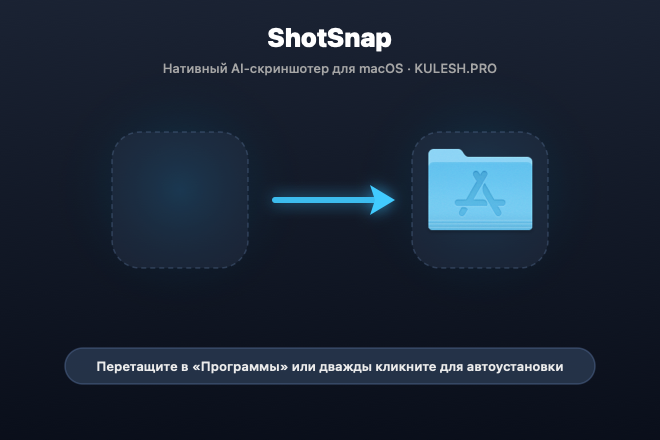
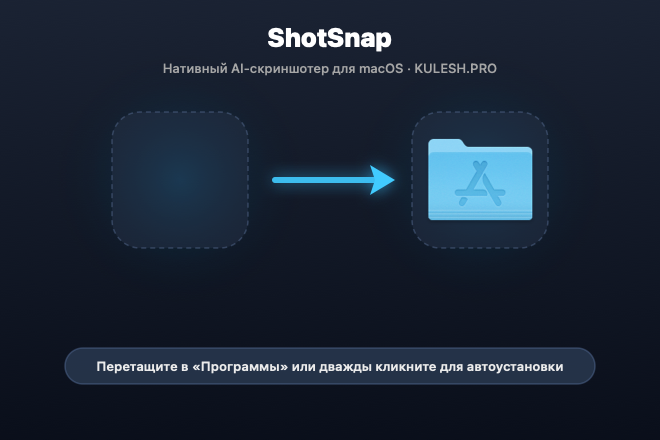
style(dmg): pure minimalist dark styling with preserved blue Applications folder and clean framing

Changed region(s): [[0.6364, 0.2955, 0.8182, 0.5318], [0.3939, 0.3545, 0.6061, 0.5023]]

diff --git a/scripts/generate_dmg_background_660.swift b/scripts/generate_dmg_background_660.swift
@@ -10,7 +10,7 @@ func saveImage(_ image: NSImage, to url: URL) {
     try! pngData.write(to: url)
 }
 
-func createDMGBackground660x440() -> NSImage {
+func createCleanDarkDMGBackground() -> NSImage {
     let size = CGSize(width: 660, height: 440)
     let image = NSImage(size: size)
     
@@ -24,7 +24,7 @@ func createDMGBackground660x440() -> NSImage {
     
     let colorSpace = CGColorSpaceCreateDeviceRGB()
     
-    // Background Dark Obsidian Gradient
+    // 1. Dark Obsidian Gradient (Original look loved by user)
     let bgColors = [
         CGColor(red: 0.08, green: 0.10, blue: 0.15, alpha: 1.0), // Top: #141a26
         CGColor(red: 0.04, green: 0.05, blue: 0.08, alpha: 1.0)  // Bottom: #0a0d14
@@ -36,9 +36,9 @@ func createDMGBackground660x440() -> NSImage {
                                options: [])
     }
     
-    // Icon centers in Cocoa coordinates (Finder y=180 from top -> 440 - 180 = 260 from bottom)
-    let leftCenter = CGPoint(x: 180, y: 250)
-    let rightCenter = CGPoint(x: 480, y: 250)
+    // Icon centers in Cocoa coordinates (Finder y=180 -> 440 - 180 = 260 from bottom)
+    let leftCenter = CGPoint(x: 180, y: 260)
+    let rightCenter = CGPoint(x: 480, y: 260)
     
     // Radial glow accents behind icons
     let glowColorsCyan = [
@@ -50,12 +50,12 @@ func createDMGBackground660x440() -> NSImage {
         ctx.drawRadialGradient(g, startCenter: rightCenter, startRadius: 0, endCenter: rightCenter, endRadius: 130, options: [])
     }
     
-    // Floating Dock Pedestals under the icons (136x136, matching 128x128 icons)
+    // Floating Dock Pedestals framing ONLY the 128x128 icons (136x136, clean margin, never cuts through text!)
     let dockSize: CGFloat = 136
     let cornerR: CGFloat = 28
     
     for centerPt in [leftCenter, rightCenter] {
-        let rect = CGRect(x: centerPt.x - dockSize / 2, y: centerPt.y - dockSize / 2 - 10, width: dockSize, height: dockSize)
+        let rect = CGRect(x: centerPt.x - dockSize / 2, y: centerPt.y - dockSize / 2, width: dockSize, height: dockSize)
         let path = CGPath(roundedRect: rect, cornerWidth: cornerR, cornerHeight: cornerR, transform: nil)
         
         ctx.saveGState()
@@ -63,7 +63,7 @@ func createDMGBackground660x440() -> NSImage {
         ctx.setFillColor(CGColor(red: 0.12, green: 0.15, blue: 0.22, alpha: 0.45))
         ctx.fillPath()
         
-        ctx.setStrokeColor(CGColor(red: 0.35, green: 0.45, blue: 0.65, alpha: 0.3))
+        ctx.setStrokeColor(CGColor(red: 0.35, green: 0.45, blue: 0.65, alpha: 0.35))
         ctx.setLineWidth(1.5)
         let dashes: [CGFloat] = [5, 4]
         ctx.setLineDash(phase: 0, lengths: dashes)
@@ -72,16 +72,16 @@ func createDMGBackground660x440() -> NSImage {
         ctx.restoreGState()
     }
     
-    // Draw macOS Applications Folder Icon on the right pedestal
+    // Draw macOS Applications Folder Icon on the right pedestal (the exact blue folder the user loves!)
     let iconPath = "/System/Library/CoreServices/CoreTypes.bundle/Contents/Resources/ApplicationsFolderIcon.icns"
     if let folderIcon = NSImage(contentsOfFile: iconPath) {
         let folderRect = CGRect(x: rightCenter.x - 56, y: rightCenter.y - 56, width: 112, height: 112)
         folderIcon.draw(in: folderRect, from: .zero, operation: .sourceOver, fraction: 0.95)
     }
     
-    // Stylized Glowing Gradient Arrow between icons: from x: 275 to x: 385, y: 240
+    // Stylized Glowing Gradient Arrow between icons: from x: 275 to x: 385, y: 260
     ctx.saveGState()
-    let arrowStartY: CGFloat = 240
+    let arrowStartY: CGFloat = 260
     let arrowStart = CGPoint(x: 275, y: arrowStartY)
     let arrowEnd = CGPoint(x: 375, y: arrowStartY)
     
@@ -162,7 +162,7 @@ func createDMGBackground660x440() -> NSImage {
 let fm = FileManager.default
 let currentDir = URL(fileURLWithPath: fm.currentDirectoryPath)
 let resourcesDir = currentDir.appendingPathComponent("Sources/Resources")
-let dmgBg = createDMGBackground660x440()
+let dmgBg = createCleanDarkDMGBackground()
 let dmgBgOutput = resourcesDir.appendingPathComponent("dmg_background.png")
 saveImage(dmgBg, to: dmgBgOutput)
-print("✅ dmg_background.png (660x440) успешно сохранен: \(dmgBgOutput.path)")
+print("✅ dmg_background.png (clean dark minimalist, no dashed lines cutting text) успешно сохранен: \(dmgBgOutput.path)")
